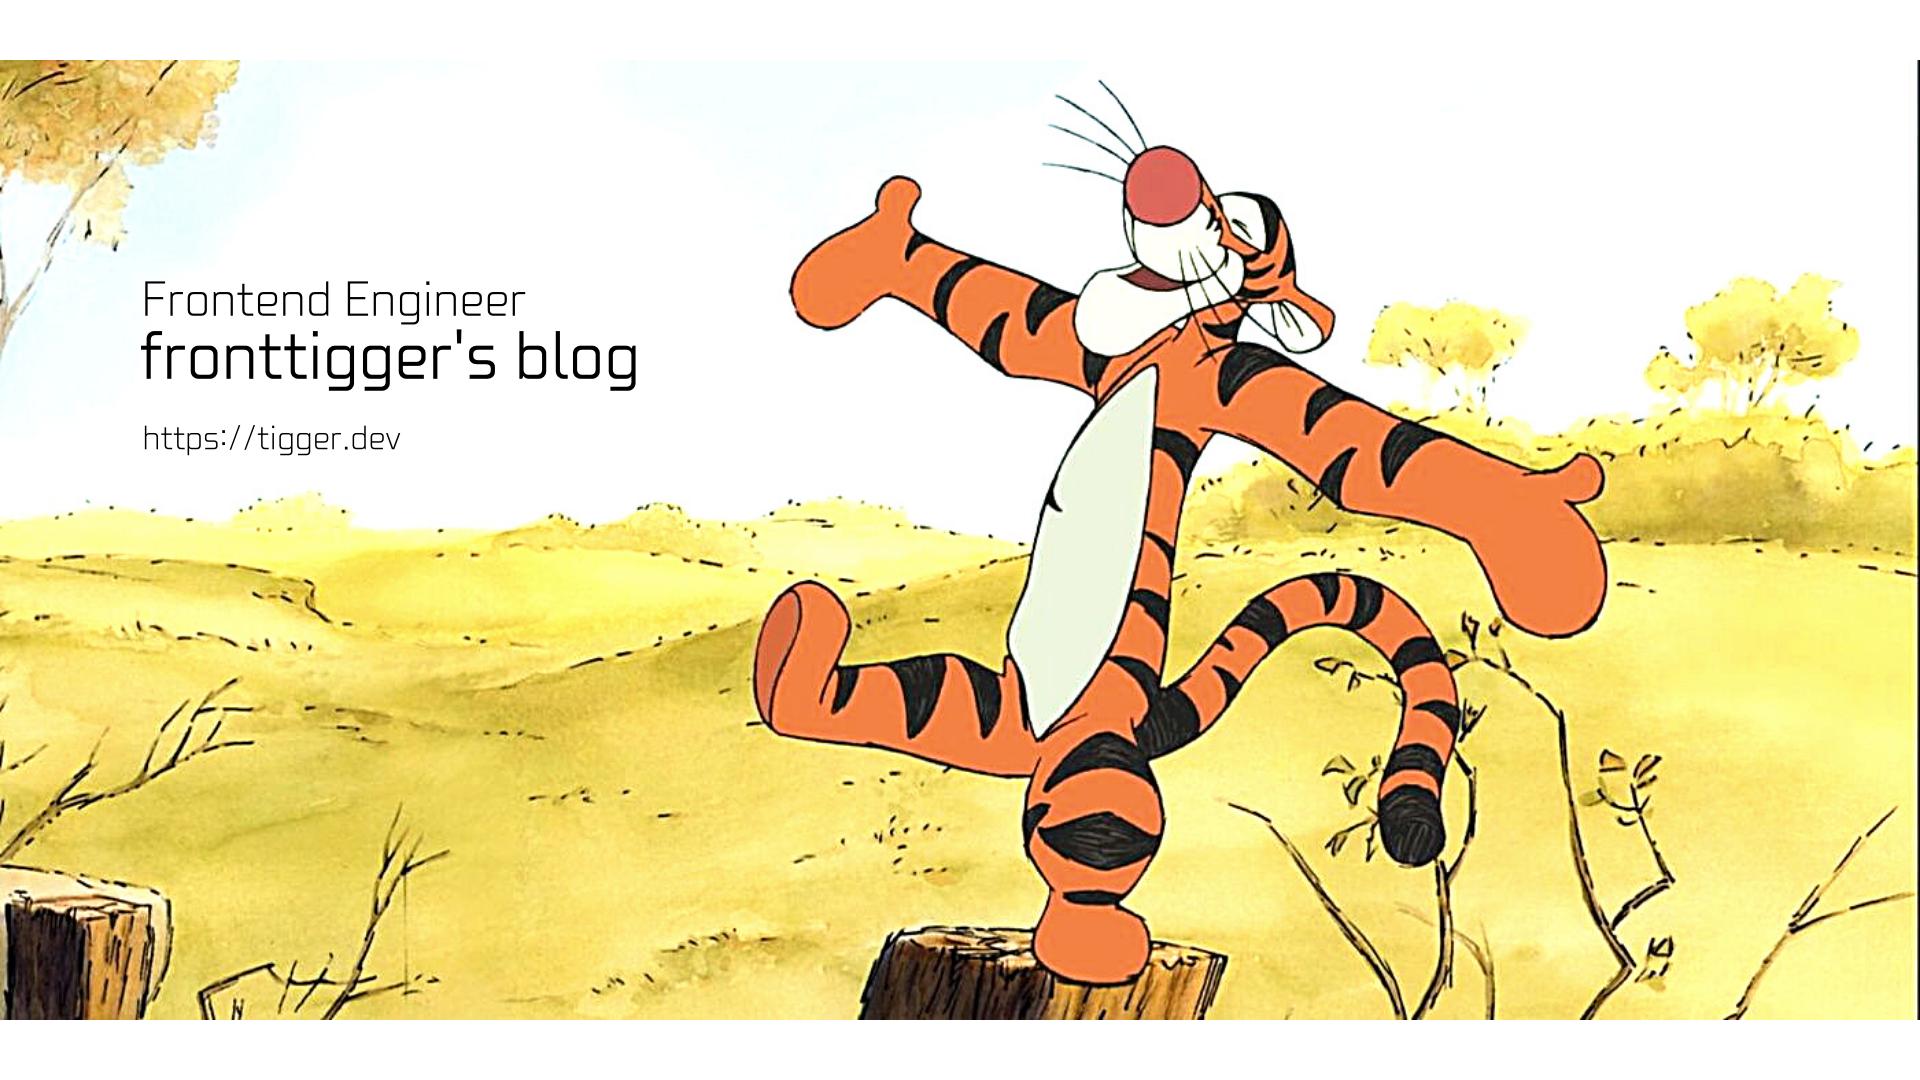
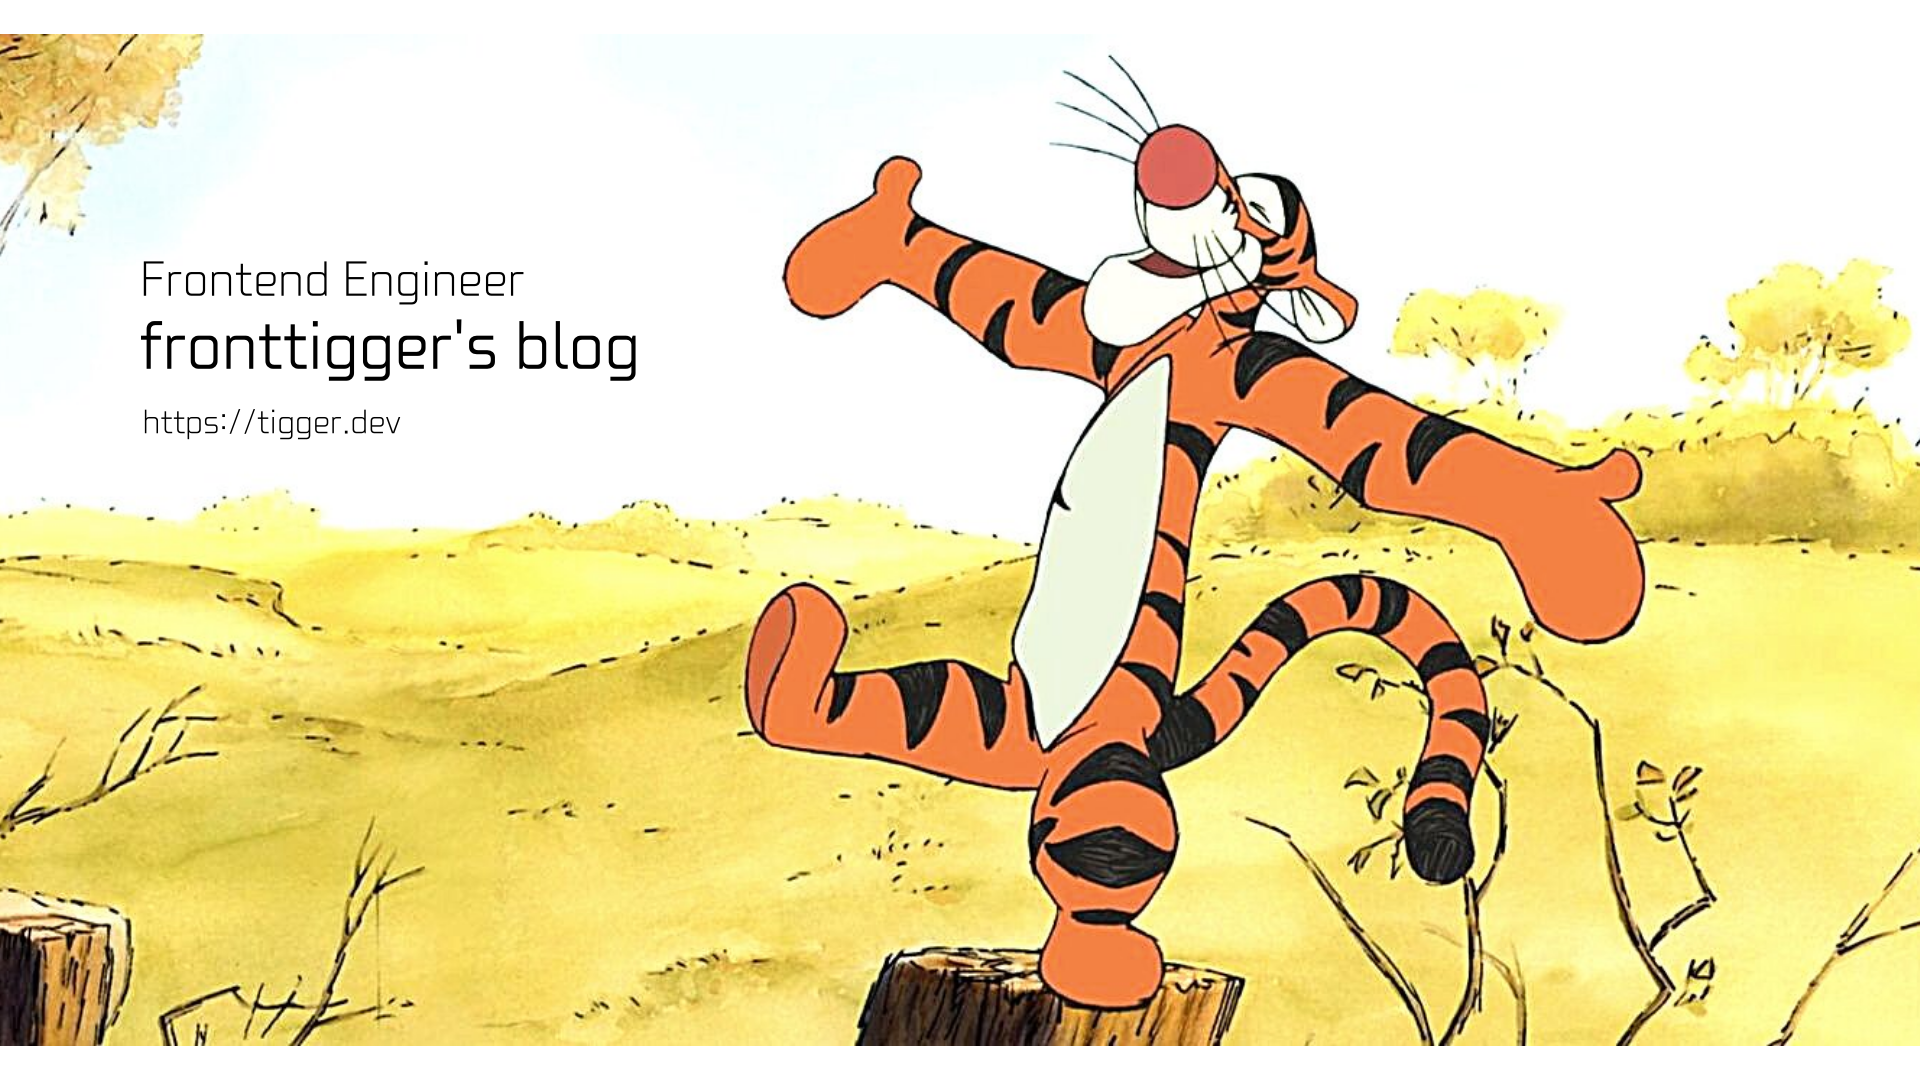
chore: 메인 썸네일 및 config 변경

diff --git a/src/config.ts b/src/config.ts
@@ -1,8 +1,8 @@
 export default {
   url: 'https://tigger.dev',
-  title: 'fronttigger',
+  title: 'fronttigger의 블로그',
   subtitle: 'fronttigger',
-  description: "fronttigger's blog",
+  description: '프론트엔드에 대한 이야기를 공유해요',
   thumbnail: '/main-thumbnail.png',
   author: {
     name: 'fronttigger',
